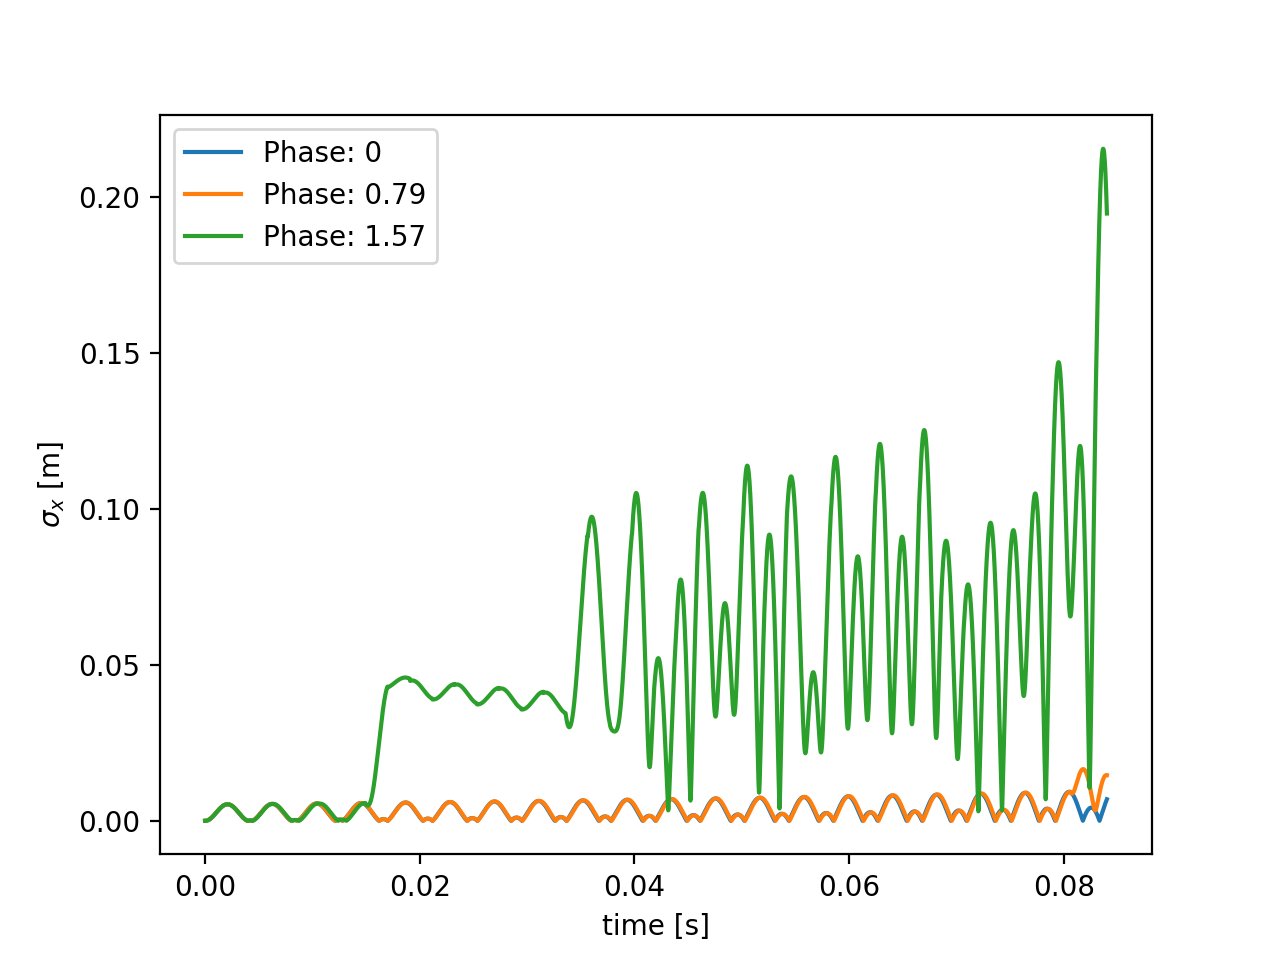
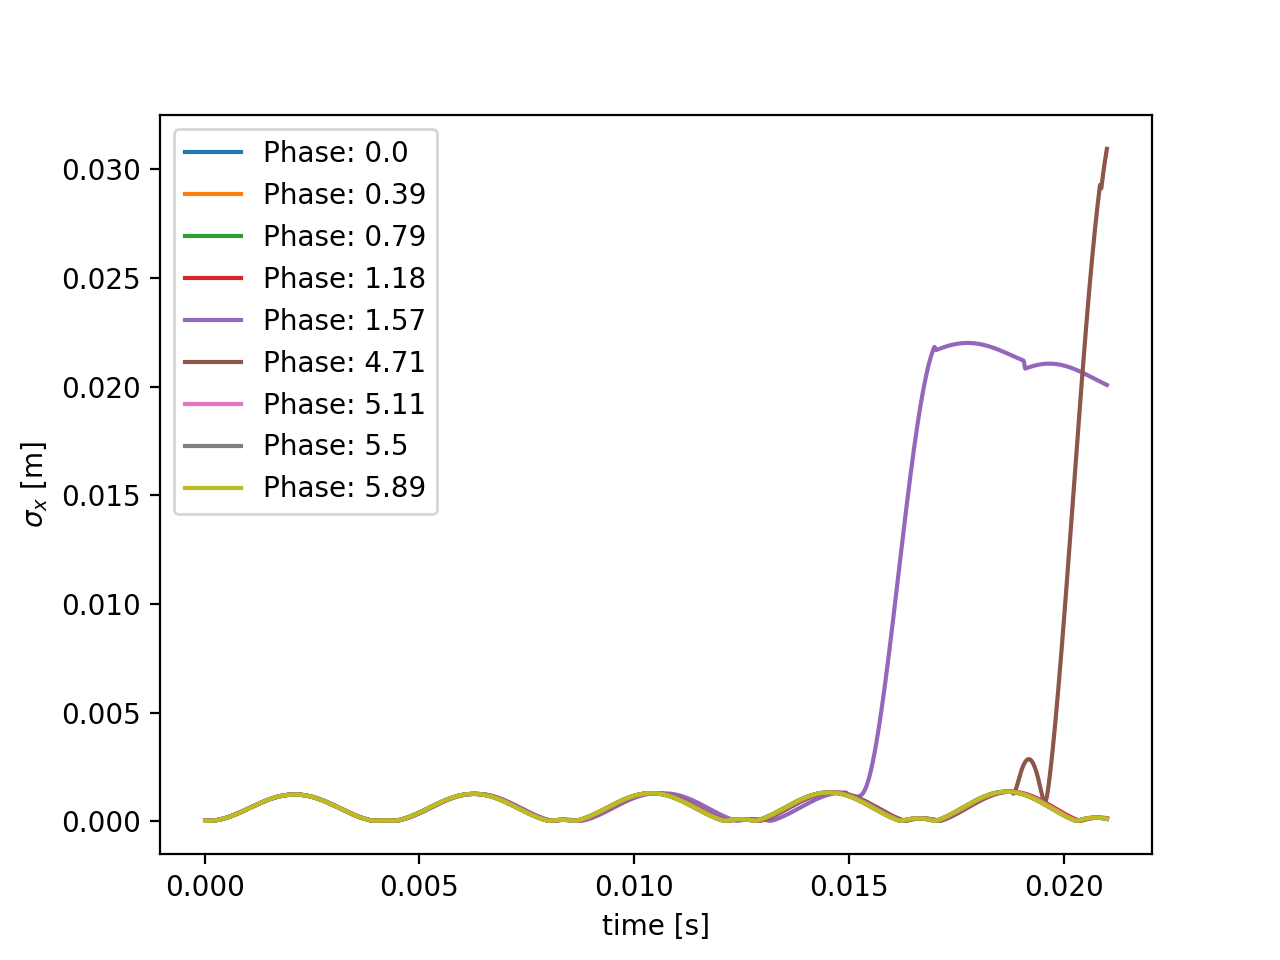
Phase analysis

diff --git a/Project/analyse_phase.py b/Project/analyse_phase.py
@@ -2,17 +2,19 @@ import log
 import numpy as np
 import scipy.constants as const
 import matplotlib.pyplot as plt
+from mpl_toolkits.axes_grid1.inset_locator import (inset_axes,InsetPosition,mark_inset)
 import copy
 from EMField import EMField
 from ProtonBunch import ProtonBunch
 
 field = EMField([.1,0,0], [0,0,1.6*10**(-5)], [-0.026,0.026]) 
-protons = ProtonBunch(0.0047,20)
+protons = ProtonBunch(0.0047,100)
 inital_bunch = copy.deepcopy(protons)
 
-phases = [0, np.pi/4, np.pi/2]
+phases = [i*np.pi/8 for i in range(0,16)]
+phases = [angle for angle in phases if np.cos(angle) >= -0.00001]
 
-deltaT, duration = 10**(-5), 0.0042*20
+deltaT, duration = 10**(-5), 0.0042*5
 timeSeries = []
 Data = []
 for i in range(len(phases)):
@@ -43,15 +45,35 @@ plt.xlabel('time [s]')
 plt.ylabel(r'$\sigma_x$ [m]')
 plt.legend()
 
-plt.figure('Linear Spreads')
+fig, ax = plt.subplots()
+ax1 = plt.axes([0,0,1,1]) # create inset instance
+ip = InsetPosition(ax1, [0.2,0.135,0.55,0.55]) # all of these are fractional, format: x coordinate of plot. y coordinate of plot, height, width
+ax1.set_axes_locator(ip) # assign inset position to inset instance
+mark_inset(ax, ax1, loc1=3, loc2=4, fc="none", ec='0.5') # draw grey lines from inset position to data on plot
 for (i,phase) in zip(Data,phases):
     x_spread = [j[0] for j in i]
     linear_fit = np.polynomial.polynomial.Polynomial.fit(timeSeries,x_spread,1)
     line = np.poly1d(linear_fit.coef)
     spread = [line(t) for t in timeSeries]
-    plt.plot(timeSeries,spread,label='Phase: '+str(round(phase,2)))
-plt.xlabel('time [s]')
-plt.ylabel(r'$\sigma_x$ [m]')
+    ax.plot(timeSeries,spread,label='Phase: '+str(round(phase,2)))
+    ax1_x, ax1_y = [], []
+    for (x,y) in zip(timeSeries,spread):
+        if 0.<y<0.00005: # the data we are focusing on
+            ax1_x.append(x)
+            ax1_y.append(y)
+    ax1.plot(ax1_x,ax1_y) # plot the data on the inset
+ax.set_xlabel('time [s]')
+ax.set_ylabel(r'$\sigma_x$ [m]')
+ax.legend()
+plt.savefig('Linear_Spreads_Zoom.png')
+
+plt.figure('Phases')
+theta = np.linspace(0,2*np.pi,10000)
+cosine = [np.cos(x) for x in theta]
+phase_points = [np.cos(x) for x in phases]
+plt.plot(theta, cosine, label=r'$cos(\theta)$', color='red',)
+plt.scatter(phases, phase_points, label='Electric field phases',color='black')
+plt.xlabel(r'$\theta$ (radians)')
 plt.legend()
 
 plt.show()

diff --git a/Project/Bunch.py b/Project/Bunch.py
@@ -66,7 +66,7 @@ class Bunch(ABC):
 
     def assignPositions(self):
         mu = 0.
-        sigma = 0.01*0.001 # 1% of 1cm
+        sigma = 0.01*0.01/5 # all of the protons are within 0.0001 m 
         positions = np.random.normal(mu, sigma, (self.bunch_number,3))
         for i in positions:
             i[2] = 0. # set all z values to zero
@@ -74,7 +74,7 @@ class Bunch(ABC):
 
     def distributeEnergies(self):
         mu = self.average_kinetic_energy
-        sigma = 0.01 * mu
+        sigma = 0.01 * mu/5
         return np.random.normal(mu, sigma, self.bunch_number)
     
     def averagePosition(self):
